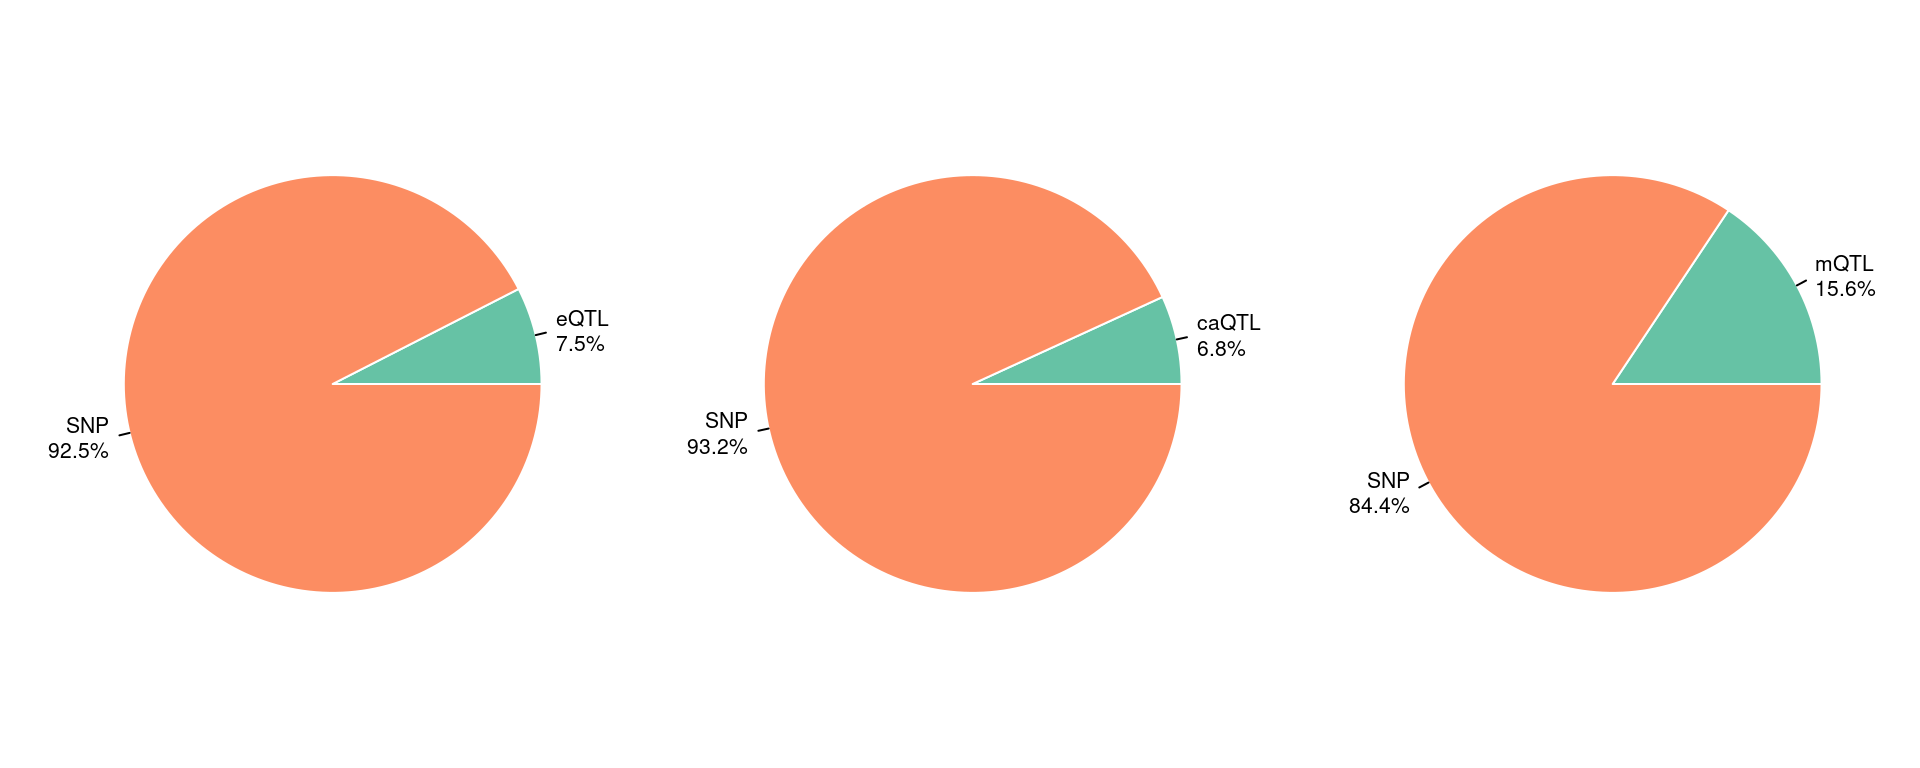
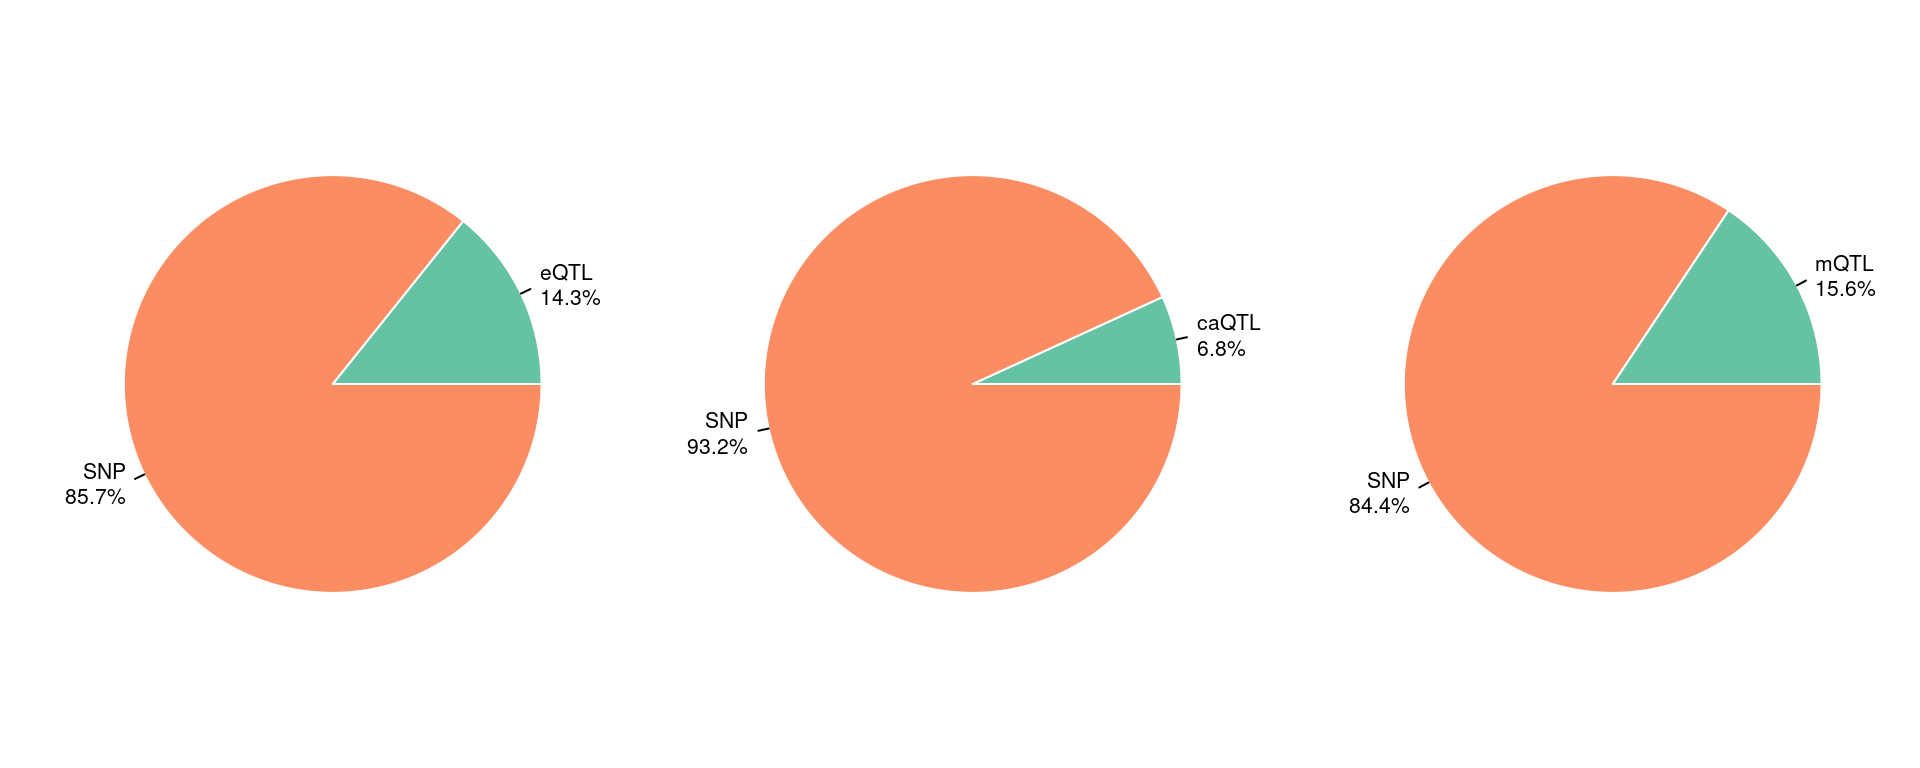
update

Changed region(s): [[0.1875, 0.2812, 0.3125, 0.4688], [0.0312, 0.5312, 0.0625, 0.6562], [0.1562, 0.4688, 0.1875, 0.5]]

diff --git a/docs/ctwas_epigenetic_analysis.html b/docs/ctwas_epigenetic_analysis.html
@@ -384,7 +384,7 @@ div.tocify {
 <div class="tab-content">
 <div id="summary" class="tab-pane fade in active">
 <p>
-<strong>Last updated:</strong> 2025-05-15
+<strong>Last updated:</strong> 2025-05-19
 </p>
 <p>
 <strong>Checks:</strong> <span class="glyphicon glyphicon-ok text-success" aria-hidden="true"></span> 6 <span class="glyphicon glyphicon-exclamation-sign text-danger" aria-hidden="true"></span> 1
@@ -475,16 +475,16 @@ This reproducible <a href="https://rmarkdown.rstudio.com">R Markdown</a> analysi
 <div class="panel panel-default">
 <div class="panel-heading">
 <p class="panel-title">
-<a data-toggle="collapse" data-parent="#workflowr-checks" href="#strongRepositoryversionstrongahrefhttpsgithubcomsq96multigroupctwasanalysistreec7b1de58c1eb7d6693bf47b7fb31c1c2b171fbe0targetblankc7b1de5a"> <span class="glyphicon glyphicon-ok text-success" aria-hidden="true"></span> <strong>Repository version:</strong> <a href="https://github.com/sq-96/multigroup_ctwas_analysis/tree/c7b1de58c1eb7d6693bf47b7fb31c1c2b171fbe0" target="_blank">c7b1de5</a> </a>
+<a data-toggle="collapse" data-parent="#workflowr-checks" href="#strongRepositoryversionstrongahrefhttpsgithubcomsq96multigroupctwasanalysistreea13663976c1f26f18d2628629f8f3bf8959f81c8targetblanka136639a"> <span class="glyphicon glyphicon-ok text-success" aria-hidden="true"></span> <strong>Repository version:</strong> <a href="https://github.com/sq-96/multigroup_ctwas_analysis/tree/a13663976c1f26f18d2628629f8f3bf8959f81c8" target="_blank">a136639</a> </a>
 </p>
 </div>
[2 lines of base64/hex data omitted]
 <div class="panel-body">
 <p>
 Great! You are using Git for version control. Tracking code development and connecting the code version to the results is critical for reproducibility.
 </p>
 <p>
-The results in this page were generated with repository version <a href="https://github.com/sq-96/multigroup_ctwas_analysis/tree/c7b1de58c1eb7d6693bf47b7fb31c1c2b171fbe0" target="_blank">c7b1de5</a>. See the <em>Past versions</em> tab to see a history of the changes made to the R Markdown and HTML files.
+The results in this page were generated with repository version <a href="https://github.com/sq-96/multigroup_ctwas_analysis/tree/a13663976c1f26f18d2628629f8f3bf8959f81c8" target="_blank">a136639</a>. See the <em>Past versions</em> tab to see a history of the changes made to the R Markdown and HTML files.
 </p>
 <p>
 Note that you need to be careful to ensure that all relevant files for the analysis have been committed to Git prior to generating the results (you can use <code>wflow_publish</code> or <code>wflow_git_commit</code>). workflowr only checks the R Markdown file, but you know if there are other scripts or data files that it depends on. Below is the status of the Git repository when the results were generated:
@@ -492,7 +492,6 @@ Note that you need to be careful to ensure that all relevant files for the analy
 <pre><code>
 Unstaged changes:
     Modified:   analysis/ctwas_epigenetic_analysis.Rmd
-    Modified:   analysis/simulation_one_tissues_three_omics.Rmd
 
 </code></pre>
 <p>
@@ -531,6 +530,57 @@ Message
 </tr>
 </thead>
 <tbody>
+<tr>
+<td>
+Rmd
+</td>
+<td>
+<a href="https://github.com/sq-96/multigroup_ctwas_analysis/blob/c3278085b3eb1e263fe1133d723e42f080362689/analysis/ctwas_epigenetic_analysis.Rmd" target="_blank">c327808</a>
+</td>
+<td>
+sq-96
+</td>
+<td>
+2025-05-17
+</td>
+<td>
+update
+</td>
+</tr>
+<tr>
+<td>
+Rmd
+</td>
+<td>
+<a href="https://github.com/sq-96/multigroup_ctwas_analysis/blob/ae857ab0c327cdfc6030aaf308dbeaff18c08f63/analysis/ctwas_epigenetic_analysis.Rmd" target="_blank">ae857ab</a>
+</td>
+<td>
+sq-96
+</td>
+<td>
+2025-05-15
+</td>
+<td>
+update
+</td>
+</tr>
+<tr>
+<td>
+html
+</td>
+<td>
+<a href="https://rawcdn.githack.com/sq-96/multigroup_ctwas_analysis/ae857ab0c327cdfc6030aaf308dbeaff18c08f63/docs/ctwas_epigenetic_analysis.html" target="_blank">ae857ab</a>
+</td>
+<td>
+sq-96
+</td>
+<td>
+2025-05-15
+</td>
+<td>
+update
+</td>
+</tr>
 <tr>
 <td>
 Rmd
@@ -736,6 +786,17 @@ Date
 <tbody>
 <tr>
 <td>
+<a href="https://github.com/sq-96/multigroup_ctwas_analysis/blob/ae857ab0c327cdfc6030aaf308dbeaff18c08f63/docs/figure/ctwas_epigenetic_analysis.Rmd/unnamed-chunk-2-1.png" target="_blank">ae857ab</a>
+</td>
+<td>
+sq-96
+</td>
+<td>
+2025-05-15
+</td>
+</tr>
+<tr>
+<td>
 <a href="https://github.com/sq-96/multigroup_ctwas_analysis/blob/65d2515bca6324060ff8c92ba38cb1645871d09c/docs/figure/ctwas_epigenetic_analysis.Rmd/unnamed-chunk-2-1.png" target="_blank">65d2515</a>
 </td>
 <td>
@@ -797,6 +858,17 @@ Date
 </tr>
 </thead>
 <tbody>
+<tr>
+<td>
+<a href="https://github.com/sq-96/multigroup_ctwas_analysis/blob/ae857ab0c327cdfc6030aaf308dbeaff18c08f63/docs/figure/ctwas_epigenetic_analysis.Rmd/unnamed-chunk-3-1.png" target="_blank">ae857ab</a>
+</td>
+<td>
+sq-96
+</td>
+<td>
+2025-05-15
+</td>
+</tr>
 <tr>
 <td>
 <a href="https://github.com/sq-96/multigroup_ctwas_analysis/blob/215445c81088f22fd33fc276858b51b000774d40/docs/figure/ctwas_epigenetic_analysis.Rmd/unnamed-chunk-3-1.png" target="_blank">215445c</a>
@@ -873,6 +945,17 @@ Date
 <tbody>
 <tr>
 <td>
+<a href="https://github.com/sq-96/multigroup_ctwas_analysis/blob/ae857ab0c327cdfc6030aaf308dbeaff18c08f63/docs/figure/ctwas_epigenetic_analysis.Rmd/unnamed-chunk-4-1.png" target="_blank">ae857ab</a>
+</td>
+<td>
+sq-96
+</td>
+<td>
+2025-05-15
+</td>
+</tr>
+<tr>
+<td>
 <a href="https://github.com/sq-96/multigroup_ctwas_analysis/blob/215445c81088f22fd33fc276858b51b000774d40/docs/figure/ctwas_epigenetic_analysis.Rmd/unnamed-chunk-4-1.png" target="_blank">215445c</a>
 </td>
 <td>
@@ -923,15 +1006,15 @@ finemap_res_multi &lt;- anno_finemap_res(finemap_res,
                                       drop_unmapped = TRUE,
                                       add_position = TRUE,
                                       use_gene_pos = &quot;mid&quot;)</code></pre>
-<pre><code>2025-05-15 16:01:42 INFO::Annotating fine-mapping result ...
-2025-05-15 16:01:42 INFO::Map molecular traits to genes
-2025-05-15 16:01:50 INFO::Add gene positions
-2025-05-15 16:01:50 INFO::Add SNP positions</code></pre>
-<pre class="r"><code>aa &lt;- finemap_res_multi[finemap_res_multi$type!=&quot;SNP&quot; &amp; finemap_res_multi$type!=&quot;eQTL&quot; &amp; finemap_res_multi$susie_pip&gt;0.8,]
+<pre><code>2025-05-19 17:18:21 INFO::Annotating fine-mapping result ...
+2025-05-19 17:18:21 INFO::Map molecular traits to genes
+2025-05-19 17:18:29 INFO::Add gene positions
+2025-05-19 17:18:30 INFO::Add SNP positions</code></pre>
+<pre class="r"><code>aa &lt;- finemap_res_multi[finemap_res_multi$type!=&quot;SNP&quot; &amp; finemap_res_multi$susie_pip&gt;0.8,]
 dim(aa)</code></pre>
-<pre><code>[1] 17 15</code></pre>
+<pre><code>[1] 20 15</code></pre>
 <pre class="r"><code>setDT(finemap_res_multi)
-bb &lt;- finemap_res_multi[grepl(&quot;^L[0-9]+$&quot;, cs) &amp; type %in% c(&quot;mQTL&quot;, &quot;caQTL&quot;)]
+bb &lt;- finemap_res_multi[grepl(&quot;^L[0-9]+$&quot;, cs) &amp; type %in% c(&quot;mQTL&quot;, &quot;caQTL&quot;, &quot;eQTL&quot;)]
 result &lt;- bb[, .(total_susie_pip = sum(susie_pip),
                           context = first(context),
                           group = first(group)),
@@ -941,11 +1024,11 @@ result &lt;- bb[, .(total_susie_pip = sum(susie_pip)),
 result &lt;- result[order(-total_susie_pip)]
 result &lt;- result[result$total_susie_pip&gt;0.8,]
 dim(result)</code></pre>
-<pre><code>[1] 19  4</code></pre>
+<pre><code>[1] 31  4</code></pre>
 <pre class="r"><code>library(EnsDb.Hsapiens.v86)
 ens_db &lt;- EnsDb.Hsapiens.v86
 make_locusplot(finemap_res_multi,
-               region_id = &quot;1_114331223_115337972&quot;,
+               region_id = &quot;19_11173352_13360313&quot;,
                locus_range = c(115297972,115337972),
                ens_db = ens_db,
                weights = weights,
